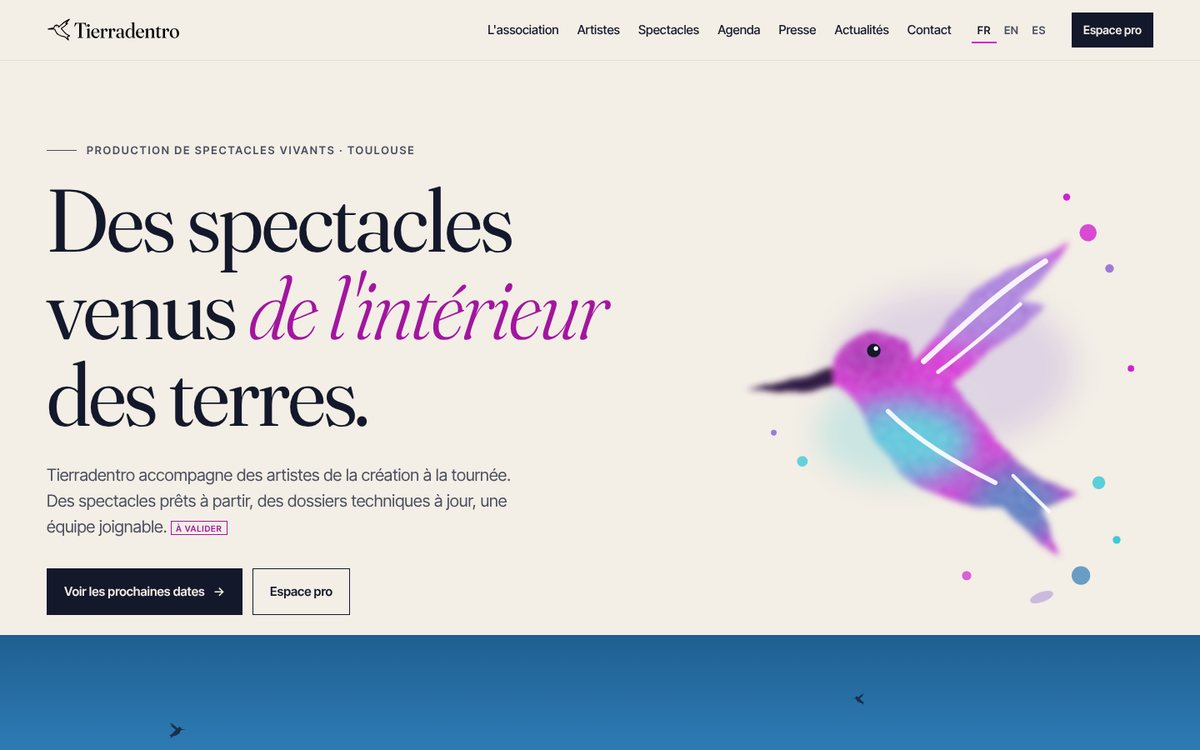
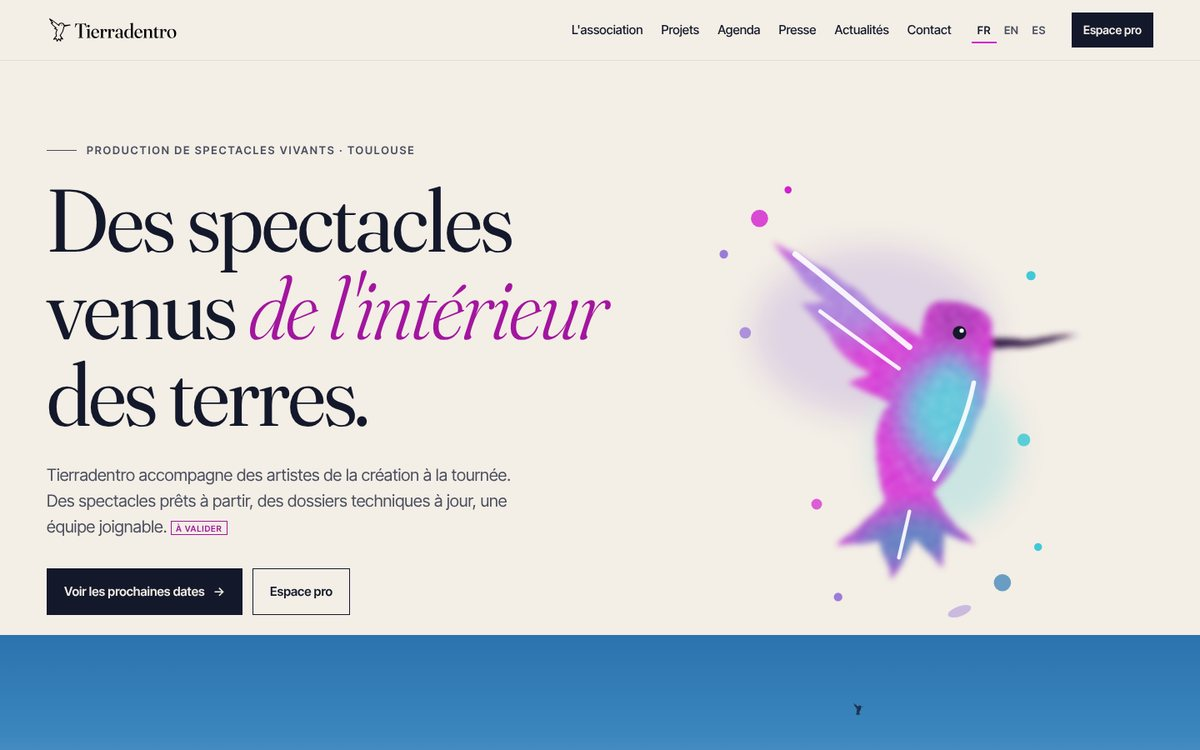
Phase 0 : structure en projets, colibri d'après la référence, salar plus chaud
- Liste plate de projets : le Cuarteto Tafi devient un projet parmi d'autres
- Colibri au trait redessiné dans la posture de l'aquarelle (vertical, tourné à droite)
- Salar de la maquette A : sable chaud, nuages bas, jacaranda isolé
- Captures de référence ajoutées, décisions notées dans docs/decisions.md

Claude-Session: https://claude.ai/code/session_017sud6yL9D7haG3bv9AmLAw

diff --git a/design/phase-0/maquette-a-salar.html b/design/phase-0/maquette-a-salar.html
@@ -50,22 +50,24 @@
 
   /* ---------- Salar ---------- */
   .salar { position: relative; height: clamp(300px, 46vw, 580px); overflow: hidden; margin: 24px 0 0; isolation: isolate; }
-  .salar .sky { position: absolute; inset: 0 0 40% 0; background: linear-gradient(180deg, #1F5F91 0%, #2E7BB5 40%, #86B9DE 80%, #CFE3F0 100%); }
-  .salar .mounts { position: absolute; left: 0; width: 100%; height: 9%; bottom: 40%; z-index: 1; }
-  .salar .mounts.mirror { bottom: auto; top: 60%; transform: scaleY(-1); opacity: .35; filter: blur(1.5px); z-index: 1; }
-  .salar .plain { position: absolute; inset: 60% 0 0 0; background: linear-gradient(180deg, #BFD8EA 0%, #E4EEF4 22%, #F7F6F2 60%, var(--sable) 100%); overflow: hidden; }
-  .salar .crust { position: absolute; inset: 0; background: url("assets/salar-croute.svg") center top / cover no-repeat; opacity: .9; }
+  .salar .sky { position: absolute; inset: 0 0 40% 0; background: linear-gradient(180deg, #2A73AE 0%, #3C86BE 35%, #79AFD6 70%, #C9DCE6 100%); }
+  .salar .clouds { position: absolute; left: -5%; right: -5%; bottom: 39%; height: 22%; z-index: 1; filter: blur(10px); opacity: .9;
+    background: radial-gradient(18% 70% at 8% 100%, #F4F6F7 0, transparent 70%), radial-gradient(14% 60% at 30% 100%, #EEF2F4 0, transparent 70%), radial-gradient(20% 80% at 52% 100%, #F6F7F7 0, transparent 70%), radial-gradient(14% 60% at 74% 100%, #EDF1F3 0, transparent 70%), radial-gradient(18% 75% at 94% 100%, #F4F6F7 0, transparent 70%); }
+  .salar .plain { position: absolute; inset: 60% 0 0 0; background: linear-gradient(180deg, #DCD3C4 0%, #E9E0D1 18%, #EFE8DC 55%, var(--sable) 100%); overflow: hidden; }
+  .salar .crust { position: absolute; inset: 0; background: url("assets/salar-croute.svg") center top / cover no-repeat; opacity: .45; filter: sepia(.7) saturate(.7); }
+  .salar .tree { position: absolute; z-index: 2; left: 16%; bottom: 37%; height: 40%; width: auto; }
+  .salar .tree-shadow { position: absolute; z-index: 1; left: 17%; bottom: 36.2%; width: 9%; height: 1.4%; border-radius: 50%; background: rgba(90,70,50,.25); filter: blur(3px); }
   .salar .flock { position: absolute; inset: 0; z-index: 2; pointer-events: none; }
   .salar .flock svg { position: absolute; width: 22px; color: var(--nuit); opacity: .75; }
   .salar figcaption { position: absolute; right: var(--gutter); bottom: 14px; z-index: 3; font-size: 12px; letter-spacing: .06em; color: var(--gris); font-style: italic; }
   .crosser { position: absolute; z-index: 4; top: 22%; left: -80px; width: 54px; color: var(--nuit); animation: cross 9s 1.2s cubic-bezier(.45,.05,.35,1) 1 forwards; opacity: 0; }
   @keyframes cross {
-    0% { transform: translate(0, 0) scaleX(-1); opacity: 0; }
+    0% { transform: translate(0, 0) ; opacity: 0; }
     6% { opacity: .9; }
-    40% { transform: translate(42vw, -40px) scaleX(-1); }
-    55% { transform: translate(52vw, -10px) scaleX(-1); }
+    40% { transform: translate(42vw, -40px); }
+    55% { transform: translate(52vw, -10px); }
     94% { opacity: .9; }
-    100% { transform: translate(115vw, -90px) scaleX(-1); opacity: 0; }
+    100% { transform: translate(115vw, -90px) ; opacity: 0; }
   }
 
   /* ---------- Preuves ---------- */
@@ -204,7 +206,7 @@
       <img class="logo-b" src="assets/logo-tierradentro-b.svg" alt="Tierradentro">
     </a>
     <nav class="nav" aria-label="Navigation principale">
-      <a href="#">L'association</a><a href="#">Artistes</a><a href="#">Spectacles</a><a href="#agenda">Agenda</a><a href="#">Presse</a><a href="#">Actualités</a><a href="#">Contact</a>
+      <a href="#">L'association</a><a href="#">Projets</a><a href="#agenda">Agenda</a><a href="#">Presse</a><a href="#">Actualités</a><a href="#">Contact</a>
     </nav>
     <div class="langs" aria-label="Langue"><a href="#" aria-current="true" lang="fr">FR</a><a href="#" lang="en">EN</a><a href="#" lang="es">ES</a></div>
     <a class="btn-pro" href="#pro">Espace pro</a>
@@ -231,13 +233,15 @@
 
     <figure class="salar" aria-hidden="true">
       <div class="sky" data-parallax="0.04"></div>
-      <svg class="mounts" viewBox="0 0 1600 60" preserveAspectRatio="none"><use href="#mounts"/></svg>
+      <div class="clouds"></div>
       <div class="plain"><div class="crust"></div></div>
-      <svg class="mounts mirror" viewBox="0 0 1600 60" preserveAspectRatio="none"><use href="#mounts"/></svg>
+      <span class="tree-shadow"></span>
+      <svg class="tree" viewBox="0 0 120 130"><use href="#jacaranda-tree"/></svg>
       <div class="flock">
-        <svg viewBox="0 0 100 100" style="left:14%;top:18%;transform:scaleX(-1)"><use href="#bird-solid"/></svg>
-        <svg viewBox="0 0 100 100" style="left:20%;top:30%;width:14px;transform:scaleX(-1)"><use href="#bird-solid"/></svg>
-        <svg viewBox="0 0 100 100" style="left:71%;top:12%;width:16px"><use href="#bird-solid"/></svg>
+        <svg viewBox="0 0 100 100" style="left:14.5%;top:30%;width:12px"><use href="#bird-solid"/></svg>
+        <svg viewBox="0 0 100 100" style="left:27%;top:26%;width:11px;transform:scaleX(-1)"><use href="#bird-solid"/></svg>
+        <svg viewBox="0 0 100 100" style="left:26%;top:44%;width:9px;transform:scaleX(-1)"><use href="#bird-solid"/></svg>
+        <svg viewBox="0 0 100 100" style="left:71%;top:14%;width:16px"><use href="#bird-solid"/></svg>
       </div>
       <svg class="crosser" viewBox="0 0 100 100"><use href="#bird-line"/></svg>
       <figcaption>tierra adentro : l'intérieur des terres</figcaption>
@@ -248,7 +252,7 @@
     <ul>
       <li><strong>90 dates</strong><span>jouées depuis janvier 2024 <span class="av">À valider</span></span></li>
       <li><strong>36 départements</strong><span>et le Maroc (Festival Mawazine, Rabat)</span></li>
-      <li><strong>3 spectacles</strong><span>en tournée, un en préparation</span></li>
+      <li><strong>3 projets</strong><span>en tournée, un en préparation</span></li>
     </ul>
   </div>
 
@@ -259,12 +263,12 @@
         <a class="more" href="#">Tout l'agenda et les archives</a>
       </div>
       <ol class="dates reveal">
-        <li class="date"><p class="d-when"><span class="d-day">13</span><span class="d-month">nov.<small>ven. 2026</small></span></p><p class="d-where"><strong>Le Taquin</strong><span>Toulouse (31)</span></p><p class="d-what">Cuarteto Tafi<em>Spectacle à préciser</em></p><a class="d-tix" href="#">Billetterie bientôt</a></li>
-        <li class="date"><p class="d-when"><span class="d-day">26</span><span class="d-month">nov.<small>jeu. 2026</small></span></p><p class="d-where"><strong>Le Palace</strong><span>Surgères (17)</span></p><p class="d-what">Cuarteto Tafi<em>Spectacle à préciser</em></p><a class="d-tix" href="#">Billetterie bientôt</a></li>
-        <li class="date"><p class="d-when"><span class="d-day">5</span><span class="d-month">déc.<small>sam. 2026</small></span></p><p class="d-where"><strong>Centre Culturel</strong><span>Eymet (24)</span></p><p class="d-what">Cuarteto Tafi<em>Spectacle à préciser</em></p><a class="d-tix" href="#">Billetterie bientôt</a></li>
-        <li class="date"><p class="d-when"><span class="d-day">22</span><span class="d-month">janv.<small>ven. 2027</small></span></p><p class="d-where"><strong>Théâtre</strong><span>Conques-sur-Orbiel (11)</span></p><p class="d-what">Cuarteto Tafi<em>Spectacle à préciser</em></p><a class="d-tix" href="#">Billetterie bientôt</a></li>
-        <li class="date"><p class="d-when"><span class="d-day">12</span><span class="d-month">mars<small>ven. 2027</small></span></p><p class="d-where"><strong>Salle Jacques Brel</strong><span>Castanet-Tolosan (31)</span></p><p class="d-what">Cuarteto Tafi<em>Spectacle à préciser</em></p><a class="d-tix" href="#">Billetterie bientôt</a></li>
-        <li class="date"><p class="d-when"><span class="d-day">4</span><span class="d-month">juin<small>ven. 2027</small></span></p><p class="d-where"><strong>Le Bijou</strong><span>Toulouse (31)</span></p><p class="d-what">Cuarteto Tafi<em>Spectacle à préciser</em></p><a class="d-tix" href="#">Billetterie bientôt</a></li>
+        <li class="date"><p class="d-when"><span class="d-day">13</span><span class="d-month">nov.<small>ven. 2026</small></span></p><p class="d-where"><strong>Le Taquin</strong><span>Toulouse (31)</span></p><p class="d-what">Cuarteto Tafi<em>Concert</em></p><a class="d-tix" href="#">Billetterie bientôt</a></li>
+        <li class="date"><p class="d-when"><span class="d-day">26</span><span class="d-month">nov.<small>jeu. 2026</small></span></p><p class="d-where"><strong>Le Palace</strong><span>Surgères (17)</span></p><p class="d-what">Cuarteto Tafi<em>Concert</em></p><a class="d-tix" href="#">Billetterie bientôt</a></li>
+        <li class="date"><p class="d-when"><span class="d-day">5</span><span class="d-month">déc.<small>sam. 2026</small></span></p><p class="d-where"><strong>Centre Culturel</strong><span>Eymet (24)</span></p><p class="d-what">Cuarteto Tafi<em>Concert</em></p><a class="d-tix" href="#">Billetterie bientôt</a></li>
+        <li class="date"><p class="d-when"><span class="d-day">22</span><span class="d-month">janv.<small>ven. 2027</small></span></p><p class="d-where"><strong>Théâtre</strong><span>Conques-sur-Orbiel (11)</span></p><p class="d-what">Cuarteto Tafi<em>Concert</em></p><a class="d-tix" href="#">Billetterie bientôt</a></li>
+        <li class="date"><p class="d-when"><span class="d-day">12</span><span class="d-month">mars<small>ven. 2027</small></span></p><p class="d-where"><strong>Salle Jacques Brel</strong><span>Castanet-Tolosan (31)</span></p><p class="d-what">Cuarteto Tafi<em>Concert</em></p><a class="d-tix" href="#">Billetterie bientôt</a></li>
+        <li class="date"><p class="d-when"><span class="d-day">4</span><span class="d-month">juin<small>ven. 2027</small></span></p><p class="d-where"><strong>Le Bijou</strong><span>Toulouse (31)</span></p><p class="d-what">Cuarteto Tafi<em>Concert</em></p><a class="d-tix" href="#">Billetterie bientôt</a></li>
       </ol>
     </div>
   </section>
@@ -272,21 +276,21 @@
   <section class="block" style="padding-top:0" aria-labelledby="h-shows">
     <div class="wrap">
       <div class="sec-head reveal">
-        <div><p class="kicker">Répertoire</p><h2 id="h-shows" class="display">Nos spectacles</h2></div>
-        <a class="more" href="#">Tous les spectacles</a>
+        <div><p class="kicker">Ce que nous présentons</p><h2 id="h-shows" class="display">Nos projets</h2></div>
+        <a class="more" href="#">Tous les projets</a>
       </div>
       <ol class="shows reveal">
         <li class="show"><a href="#">
-          <div><h3 class="display">El infinito y un amor</h3><p>Cuarteto Tafi · le spectacle de l'album sorti en janvier 2024. <span class="av">Texte à rédiger</span></p></div>
+          <div><h3 class="display">Cuarteto Tafi</h3><p>Quartet franco-argentin de world music. En concert avec <i>El infinito y un amor</i>, l'album sorti en janvier 2024.</p></div>
           <span class="status tour">En tournée</span><span class="arrow" aria-hidden="true">→</span></a></li>
         <li class="show"><a href="#">
-          <div><h3 class="display">Des espoirs plein le corps</h3><p>Le parcours d'un corps de femme, de la naissance à l'émancipation. Avec Justine Marmouyet (danse) et Fanny Do (piano). 1 h 15, tout public.</p></div>
+          <div><h3 class="display">Des espoirs plein le corps</h3><p>Le parcours d'un corps de femme, de la naissance à l'émancipation. Avec des musiciens du Cuarteto Tafi, Justine Marmouyet (danse) et Fanny Do (piano). 1 h 15, tout public. <span class="av">Distribution à valider</span></p></div>
           <span class="status tour">En tournée</span><span class="arrow" aria-hidden="true">→</span></a></li>
         <li class="show"><a href="#">
-          <div><h3 class="display">La voix des femmes d'Amérique latine</h3><p>Cuarteto Tafi et Jean-Luc Amestoy à l'accordéon. Création 2023.</p></div>
+          <div><h3 class="display">La voix des femmes d'Amérique latine</h3><p>Avec des musiciens du Cuarteto Tafi et Jean-Luc Amestoy à l'accordéon. Création 2023. <span class="av">Distribution à valider</span></p></div>
           <span class="status tour">En tournée</span><span class="arrow" aria-hidden="true">→</span></a></li>
         <li class="show teaser"><a href="#">
-          <div><h3 class="display">La Noche Eterna</h3><p>Nouveau spectacle en préparation. Plus d'informations prochainement.</p></div>
+          <div><h3 class="display">La Noche Eterna</h3><p>Nouveau projet en préparation. Plus d'informations prochainement.</p></div>
           <span class="status soon">À venir</span><span class="arrow" aria-hidden="true">→</span></a></li>
         <li class="show"><a href="#">
           <div><h3 class="display" style="font-size:clamp(1.5rem,3vw,2.4rem)">Nosotras : nuestros cantos – nuestros cuerpos</h3><p>Création présentée au festival Rio Loco, Toulouse, 2025. <span class="av">À confirmer</span></p></div>
@@ -298,7 +302,7 @@
   <section class="block" style="padding-top:0" aria-labelledby="h-artists">
     <div class="wrap">
       <div class="sec-head reveal">
-        <div><p class="kicker">Artistes produits</p><h2 id="h-artists" class="display">Nos artistes</h2></div>
+        <div><p class="kicker">À la une</p><h2 id="h-artists" class="display">Le projet du moment</h2></div>
       </div>
       <div class="artists reveal">
         <article class="artist">
@@ -312,7 +316,7 @@
               <li><span>Matthieu Guenez</span><span>guitare, oud</span></li>
               <li><span>Frédéric Theiler</span><span>percussions, chœurs</span></li>
             </ul>
-            <a class="more" href="#">Découvrir le Cuarteto Tafi</a>
+            <a class="more" href="#">Voir le projet</a>
           </div>
         </article>
         <aside class="join">
@@ -385,9 +389,15 @@
 
 <!-- Symboles réutilisés -->
 <svg width="0" height="0" style="position:absolute" aria-hidden="true">
-  <symbol id="bird-line" viewBox="0 0 100 100"><path d="M3 46 L28 40 C29 32 35 28 41 29 C46 30 48 34 48 38 C58 28 70 14 94 4 C86 14 82 18 78 22 L86 22 C74 34 66 40 59 44 C66 52 73 60 80 67 L95 75 L85 79 L90 93 L74 79 C56 76 40 68 36 57 C34 51 32 47 28 46 Z" fill="none" stroke="currentColor" stroke-width="4" stroke-linecap="round" stroke-linejoin="round"/></symbol>
+  <symbol id="bird-line" viewBox="0 0 100 100"><path d="M97 30 L72 32 C71 26 66 22 60 22 C54 22 50 27 50 32 C41 24 29 13 11 4 C16 12 20 17 24 21 L17 22 C24 30 31 37 38 42 L32 45 C36 47 40 49 43 50 C37 58 36 67 40 75 L28 90 L39 87 L42 98 L49 88 L57 97 L58 86 L66 89 L55 74 C63 64 69 52 70 42 C70 39 71 37 72 35 Z" fill="none" stroke="currentColor" stroke-width="4" stroke-linecap="round" stroke-linejoin="round"/></symbol>
+  <symbol id="jacaranda-tree" viewBox="0 0 120 130">
+    <path d="M58 130 C59 112 57 98 60 84 M60 92 C52 84 44 78 36 74 M60 88 C68 80 76 74 86 70 M59 100 C54 96 48 94 42 93 M60 84 C60 74 58 66 56 58" fill="none" stroke="#5B4636" stroke-width="2.6" stroke-linecap="round"/>
+    <g fill="#9B7BD9"><circle cx="40" cy="62" r="16"/><circle cx="62" cy="50" r="19"/><circle cx="84" cy="60" r="16"/><circle cx="26" cy="72" r="10"/><circle cx="98" cy="70" r="10"/></g>
+    <g fill="#B49BE6"><circle cx="50" cy="44" r="10"/><circle cx="74" cy="42" r="10"/><circle cx="34" cy="56" r="7"/><circle cx="90" cy="54" r="7"/></g>
+    <g fill="#7F5FC4" opacity=".8"><circle cx="58" cy="66" r="9"/><circle cx="44" cy="74" r="7"/><circle cx="78" cy="72" r="7"/></g>
+  </symbol>
   <symbol id="mounts" viewBox="0 0 1600 60"><path d="M0 60 L0 44 L80 38 L150 42 L230 26 L300 33 L380 18 L450 30 L520 27 L600 40 L700 22 L780 10 L850 24 L930 32 L1010 21 L1090 29 L1180 14 L1260 28 L1350 36 L1440 26 L1520 33 L1600 30 L1600 60 Z" fill="#A08ED6" opacity=".6"/><path d="M0 60 L0 50 L120 46 L240 50 L330 42 L460 48 L590 43 L720 51 L860 45 L980 49 L1110 42 L1250 48 L1390 44 L1500 50 L1600 47 L1600 60 Z" fill="#7F93BD" opacity=".7"/></symbol>
-  <symbol id="bird-solid" viewBox="0 0 100 100"><path d="M3 46 L28 40 C29 32 35 28 41 29 C46 30 48 34 48 38 C58 28 70 14 94 4 C86 14 82 18 78 22 L86 22 C74 34 66 40 59 44 C66 52 73 60 80 67 L95 75 L85 79 L90 93 L74 79 C56 76 40 68 36 57 C34 51 32 47 28 46 Z" fill="currentColor"/></symbol>
+  <symbol id="bird-solid" viewBox="0 0 100 100"><path d="M97 30 L72 32 C71 26 66 22 60 22 C54 22 50 27 50 32 C41 24 29 13 11 4 C16 12 20 17 24 21 L17 22 C24 30 31 37 38 42 L32 45 C36 47 40 49 43 50 C37 58 36 67 40 75 L28 90 L39 87 L42 98 L49 88 L57 97 L58 86 L66 89 L55 74 C63 64 69 52 70 42 C70 39 71 37 72 35 Z" fill="currentColor"/></symbol>
 </svg>
 
 <div class="mock-bar" role="group" aria-label="Outils de maquette">

diff --git a/design/phase-0/maquette-b-nuit.html b/design/phase-0/maquette-b-nuit.html
@@ -58,7 +58,7 @@
   .scroll-cue { position: absolute; left: var(--gutter); bottom: 22px; font-size: 12px; letter-spacing: .14em; text-transform: uppercase; color: rgba(243,238,230,.85); text-decoration: none; display: flex; gap: 10px; align-items: center; }
   .scroll-cue::before { content: ""; width: 1px; height: 34px; background: currentColor; }
   .crosser { position: absolute; z-index: 2; top: 40%; left: -80px; width: 46px; color: var(--sable); opacity: 0; animation: cross 10s 1.5s cubic-bezier(.45,.05,.35,1) 1 forwards; }
-  @keyframes cross { 0% { transform: translate(0,0) scaleX(-1); opacity: 0; } 8% { opacity: .9; } 50% { transform: translate(50vw,-70px) scaleX(-1); } 92% { opacity: .9; } 100% { transform: translate(115vw,-30px) scaleX(-1); opacity: 0; } }
+  @keyframes cross { 0% { transform: translate(0,0); opacity: 0; } 8% { opacity: .9; } 50% { transform: translate(50vw,-70px); } 92% { opacity: .9; } 100% { transform: translate(115vw,-30px); opacity: 0; } }
   @media (max-width: 900px) {
     .hero-bird { right: -4%; top: 78px; width: 42vw; opacity: .95; }
     .hero h1 { grid-column: 1 / -1; }
@@ -184,7 +184,7 @@
       <img class="light-logo logo-b" src="assets/logo-tierradentro-b.svg" alt="Tierradentro">
     </a>
     <nav class="nav" aria-label="Navigation principale">
-      <a href="#">L'association</a><a href="#">Artistes</a><a href="#">Spectacles</a><a href="#agenda">Agenda</a><a href="#">Presse</a><a href="#">Actualités</a><a href="#">Contact</a>
+      <a href="#">L'association</a><a href="#">Projets</a><a href="#agenda">Agenda</a><a href="#">Presse</a><a href="#">Actualités</a><a href="#">Contact</a>
     </nav>
     <div class="langs" aria-label="Langue"><a href="#" aria-current="true" lang="fr">FR</a><a href="#" lang="en">EN</a><a href="#" lang="es">ES</a></div>
     <a class="btn-pro" href="#pro">Espace pro</a>
@@ -240,7 +240,7 @@
       <div class="stats reveal">
         <div><strong>90</strong><span>dates jouées depuis janvier 2024 <span class="av">À valider</span></span></div>
         <div><strong>36</strong><span>départements, et le Maroc</span></div>
-        <div><strong>3</strong><span>spectacles en tournée</span></div>
+        <div><strong>3</strong><span>projets en tournée</span></div>
       </div>
     </div>
   </section>
@@ -252,12 +252,12 @@
         <a class="more" href="#">Agenda complet et archives par année</a>
       </div>
       <ol class="tickets reveal">
-        <li class="ticket"><div class="t-date"><span class="t-day">13</span><span class="t-month">Nov. 2026<small>vendredi</small></span></div><div class="t-body"><strong>Le Taquin</strong><span>Toulouse (31)</span><p>Cuarteto Tafi · spectacle à préciser</p></div><div class="t-foot"><span>Billetterie</span><a href="#">bientôt</a></div></li>
-        <li class="ticket"><div class="t-date"><span class="t-day">26</span><span class="t-month">Nov. 2026<small>jeudi</small></span></div><div class="t-body"><strong>Le Palace</strong><span>Surgères (17)</span><p>Cuarteto Tafi · spectacle à préciser</p></div><div class="t-foot"><span>Billetterie</span><a href="#">bientôt</a></div></li>
-        <li class="ticket"><div class="t-date"><span class="t-day">5</span><span class="t-month">Déc. 2026<small>samedi</small></span></div><div class="t-body"><strong>Centre Culturel</strong><span>Eymet (24)</span><p>Cuarteto Tafi · spectacle à préciser</p></div><div class="t-foot"><span>Billetterie</span><a href="#">bientôt</a></div></li>
-        <li class="ticket"><div class="t-date"><span class="t-day">22</span><span class="t-month">Janv. 2027<small>vendredi</small></span></div><div class="t-body"><strong>Théâtre</strong><span>Conques-sur-Orbiel (11)</span><p>Cuarteto Tafi · spectacle à préciser</p></div><div class="t-foot"><span>Billetterie</span><a href="#">bientôt</a></div></li>
-        <li class="ticket"><div class="t-date"><span class="t-day">12</span><span class="t-month">Mars 2027<small>vendredi</small></span></div><div class="t-body"><strong>Salle Jacques Brel</strong><span>Castanet-Tolosan (31)</span><p>Cuarteto Tafi · spectacle à préciser</p></div><div class="t-foot"><span>Billetterie</span><a href="#">bientôt</a></div></li>
-        <li class="ticket"><div class="t-date"><span class="t-day">4</span><span class="t-month">Juin 2027<small>vendredi</small></span></div><div class="t-body"><strong>Le Bijou</strong><span>Toulouse (31)</span><p>Cuarteto Tafi · spectacle à préciser</p></div><div class="t-foot"><span>Billetterie</span><a href="#">bientôt</a></div></li>
+        <li class="ticket"><div class="t-date"><span class="t-day">13</span><span class="t-month">Nov. 2026<small>vendredi</small></span></div><div class="t-body"><strong>Le Taquin</strong><span>Toulouse (31)</span><p>Cuarteto Tafi · concert</p></div><div class="t-foot"><span>Billetterie</span><a href="#">bientôt</a></div></li>
+        <li class="ticket"><div class="t-date"><span class="t-day">26</span><span class="t-month">Nov. 2026<small>jeudi</small></span></div><div class="t-body"><strong>Le Palace</strong><span>Surgères (17)</span><p>Cuarteto Tafi · concert</p></div><div class="t-foot"><span>Billetterie</span><a href="#">bientôt</a></div></li>
+        <li class="ticket"><div class="t-date"><span class="t-day">5</span><span class="t-month">Déc. 2026<small>samedi</small></span></div><div class="t-body"><strong>Centre Culturel</strong><span>Eymet (24)</span><p>Cuarteto Tafi · concert</p></div><div class="t-foot"><span>Billetterie</span><a href="#">bientôt</a></div></li>
+        <li class="ticket"><div class="t-date"><span class="t-day">22</span><span class="t-month">Janv. 2027<small>vendredi</small></span></div><div class="t-body"><strong>Théâtre</strong><span>Conques-sur-Orbiel (11)</span><p>Cuarteto Tafi · concert</p></div><div class="t-foot"><span>Billetterie</span><a href="#">bientôt</a></div></li>
+        <li class="ticket"><div class="t-date"><span class="t-day">12</span><span class="t-month">Mars 2027<small>vendredi</small></span></div><div class="t-body"><strong>Salle Jacques Brel</strong><span>Castanet-Tolosan (31)</span><p>Cuarteto Tafi · concert</p></div><div class="t-foot"><span>Billetterie</span><a href="#">bientôt</a></div></li>
+        <li class="ticket"><div class="t-date"><span class="t-day">4</span><span class="t-month">Juin 2027<small>vendredi</small></span></div><div class="t-body"><strong>Le Bijou</strong><span>Toulouse (31)</span><p>Cuarteto Tafi · concert</p></div><div class="t-foot"><span>Billetterie</span><a href="#">bientôt</a></div></li>
       </ol>
     </div>
   </section>
@@ -265,34 +265,34 @@
   <section class="block" style="padding-top:0" aria-labelledby="h-shows">
     <div class="wrap">
       <div class="head reveal">
-        <div><p class="kicker">Répertoire</p><h2 id="h-shows" class="display">Nos spectacles</h2></div>
-        <a class="more" href="#">Tous les spectacles</a>
+        <div><p class="kicker">Ce que nous présentons</p><h2 id="h-shows" class="display">Nos projets</h2></div>
+        <a class="more" href="#">Tous les projets</a>
       </div>
       <div class="tiles reveal">
         <a class="tile t1" href="#">
-          <div class="meta"><span class="status">En tournée</span><span>Cuarteto Tafi</span></div>
-          <div><h3 class="display">El infinito y un amor</h3><p style="margin-top:14px">Le spectacle de l'album sorti en janvier 2024. <span class="av" style="color:var(--nuit)">Texte à rédiger</span></p></div>
+          <div class="meta"><span class="status">En tournée</span><span>Quartet · world music</span></div>
+          <div><h3 class="display">Cuarteto Tafi</h3><p style="margin-top:14px">Quartet franco-argentin. En concert avec <i>El infinito y un amor</i>, l'album sorti en janvier 2024.</p></div>
           <svg class="bird" viewBox="0 0 100 100" aria-hidden="true"><use href="#bird-solid"/></svg>
         </a>
         <a class="tile t2 on-dark" href="#">
           <div class="meta"><span class="status">En tournée</span><span>1 h 15 · tout public</span></div>
-          <div><h3 class="display">Des espoirs plein le corps</h3><p style="margin-top:14px">Le parcours d'un corps de femme, de la naissance à l'émancipation. Avec Justine Marmouyet (danse) et Fanny Do (piano).</p></div>
+          <div><h3 class="display">Des espoirs plein le corps</h3><p style="margin-top:14px">Le parcours d'un corps de femme, de la naissance à l'émancipation. Avec des musiciens du Cuarteto Tafi, Justine Marmouyet (danse) et Fanny Do (piano). <span class="av">Distribution à valider</span></p></div>
           <svg class="bird" viewBox="0 0 100 100" aria-hidden="true" style="color:var(--turquoise)"><use href="#bird-solid"/></svg>
         </a>
         <a class="tile t3" href="#">
           <div class="meta"><span class="status">En tournée</span><span>Création 2023</span></div>
-          <div><h3 class="display">La voix des femmes d'Amérique latine</h3><p style="margin-top:14px">Cuarteto Tafi et Jean-Luc Amestoy à l'accordéon.</p></div>
+          <div><h3 class="display">La voix des femmes d'Amérique latine</h3><p style="margin-top:14px">Avec des musiciens du Cuarteto Tafi et Jean-Luc Amestoy à l'accordéon. <span class="av" style="color:var(--nuit)">Distribution à valider</span></p></div>
           <svg class="bird" viewBox="0 0 100 100" aria-hidden="true"><use href="#bird-solid"/></svg>
         </a>
         <a class="tile t4" href="#">
           <div class="meta"><span class="status" style="color:var(--jacaranda-encre)">À venir</span><span>En préparation</span></div>
-          <div><h3 class="display">La Noche Eterna</h3><p style="margin-top:14px;color:var(--gris)">Nouveau spectacle. Plus d'informations prochainement.</p></div>
+          <div><h3 class="display">La Noche Eterna</h3><p style="margin-top:14px;color:var(--gris)">Nouveau projet. Plus d'informations prochainement.</p></div>
           <svg class="bird" viewBox="0 0 100 100" aria-hidden="true" style="color:var(--jacaranda)"><use href="#bird-line"/></svg>
         </a>
       </div>
       <a class="strip reveal" href="#">
         <div><h3 class="display">Nosotras : nuestros cantos – nuestros cuerpos</h3><p>Création présentée au festival Rio Loco, Toulouse, 2025. <span class="av">À confirmer</span></p></div>
-        <span class="more">Voir la création</span>
+        <span class="more">Voir le projet</span>
       </a>
     </div>
   </section>
@@ -300,7 +300,7 @@
   <section class="block dark on-dark" aria-labelledby="h-artists">
     <div class="wrap artists">
       <div class="reveal">
-        <p class="kicker">Nos artistes</p>
+        <p class="kicker">Projet à la une</p>
         <h2 id="h-artists" class="artist-name display">Cuarteto <em>Tafi</em></h2>
         <p class="genre">Quartet franco-argentin de world music. Chant en espagnol, poétique et engagé, bouzouki grec, guitare flamenca et oud, percussions afro-latines.</p>
         <ul class="members">
@@ -309,11 +309,11 @@
           <li><strong>Matthieu Guenez</strong><span>guitare, oud</span></li>
           <li><strong>Frédéric Theiler</strong><span>percussions, chœurs</span></li>
         </ul>
-        <a class="more" href="#">Fiche artiste, discographie et vidéos</a>
+        <a class="more" href="#">Le projet : discographie, vidéos, dates</a>
       </div>
       <div class="reveal">
         <div class="portrait"><img src="assets/colibri-aquarelle.svg" alt=""><small>Photo du quartet à fournir (crédit obligatoire)</small></div>
-        <div class="join"><div><strong class="display">Votre projet ici ?</strong><span>Tierradentro accueille de nouveaux artistes. <span class="av">À valider</span></span></div><a class="more" href="#">Nous proposer un projet</a></div>
+        <div class="join"><div><strong class="display">Votre projet ici ?</strong><span>Tierradentro accueille de nouveaux projets. <span class="av">À valider</span></span></div><a class="more" href="#">Nous proposer un projet</a></div>
       </div>
     </div>
   </section>
@@ -334,16 +334,16 @@
     <div class="wrap pro-grid">
       <div class="reveal">
         <p class="kicker">Espace pro</p>
-        <h2 id="h-pro" class="display">Programmer un spectacle</h2>
+        <h2 id="h-pro" class="display">Programmer un projet</h2>
         <p>Tous les documents, à jour, en téléchargement direct. Sans compte ni mot de passe.</p>
         <a class="more" href="#">Ouvrir l'Espace pro</a>
       </div>
       <div class="table-scroll reveal">
         <table class="docs">
           <caption class="sr-only">Documents disponibles par spectacle</caption>
-          <thead><tr><th scope="col">Spectacle</th><th scope="col">Fiche technique</th><th scope="col">Dossier de presse</th><th scope="col">Photos HD</th><th scope="col">Mise à jour</th></tr></thead>
+          <thead><tr><th scope="col">Projet</th><th scope="col">Fiche technique</th><th scope="col">Dossier de presse</th><th scope="col">Photos HD</th><th scope="col">Mise à jour</th></tr></thead>
           <tbody>
-            <tr><th scope="row">El infinito y un amor</th><td><a href="#">PDF</a></td><td><a href="#">PDF</a></td><td><a href="#">Galerie</a></td><td class="na">à saisir</td></tr>
+            <tr><th scope="row">Cuarteto Tafi</th><td><a href="#">PDF</a></td><td><a href="#">PDF</a></td><td><a href="#">Galerie</a></td><td class="na">à saisir</td></tr>
             <tr><th scope="row">Des espoirs plein le corps</th><td><a href="#">PDF</a></td><td><a href="#">PDF</a></td><td><a href="#">Galerie</a></td><td class="na">à saisir</td></tr>
             <tr><th scope="row">La voix des femmes d'Amérique latine</th><td><a href="#">PDF</a></td><td><a href="#">PDF</a></td><td><a href="#">Galerie</a></td><td class="na">à saisir</td></tr>
             <tr><th scope="row">La Noche Eterna</th><td class="na">bientôt</td><td class="na">bientôt</td><td class="na">bientôt</td><td class="na">—</td></tr>
@@ -373,8 +373,8 @@
 </footer>
 
 <svg width="0" height="0" style="position:absolute" aria-hidden="true">
-  <symbol id="bird-line" viewBox="0 0 100 100"><path d="M3 46 L28 40 C29 32 35 28 41 29 C46 30 48 34 48 38 C58 28 70 14 94 4 C86 14 82 18 78 22 L86 22 C74 34 66 40 59 44 C66 52 73 60 80 67 L95 75 L85 79 L90 93 L74 79 C56 76 40 68 36 57 C34 51 32 47 28 46 Z" fill="none" stroke="currentColor" stroke-width="4" stroke-linecap="round" stroke-linejoin="round"/></symbol>
-  <symbol id="bird-solid" viewBox="0 0 100 100"><path d="M3 46 L28 40 C29 32 35 28 41 29 C46 30 48 34 48 38 C58 28 70 14 94 4 C86 14 82 18 78 22 L86 22 C74 34 66 40 59 44 C66 52 73 60 80 67 L95 75 L85 79 L90 93 L74 79 C56 76 40 68 36 57 C34 51 32 47 28 46 Z" fill="currentColor"/></symbol>
+  <symbol id="bird-line" viewBox="0 0 100 100"><path d="M97 30 L72 32 C71 26 66 22 60 22 C54 22 50 27 50 32 C41 24 29 13 11 4 C16 12 20 17 24 21 L17 22 C24 30 31 37 38 42 L32 45 C36 47 40 49 43 50 C37 58 36 67 40 75 L28 90 L39 87 L42 98 L49 88 L57 97 L58 86 L66 89 L55 74 C63 64 69 52 70 42 C70 39 71 37 72 35 Z" fill="none" stroke="currentColor" stroke-width="4" stroke-linecap="round" stroke-linejoin="round"/></symbol>
+  <symbol id="bird-solid" viewBox="0 0 100 100"><path d="M97 30 L72 32 C71 26 66 22 60 22 C54 22 50 27 50 32 C41 24 29 13 11 4 C16 12 20 17 24 21 L17 22 C24 30 31 37 38 42 L32 45 C36 47 40 49 43 50 C37 58 36 67 40 75 L28 90 L39 87 L42 98 L49 88 L57 97 L58 86 L66 89 L55 74 C63 64 69 52 70 42 C70 39 71 37 72 35 Z" fill="currentColor"/></symbol>
   <symbol id="mounts" viewBox="0 0 1600 60"><path d="M0 60 L0 44 L80 38 L150 42 L230 26 L300 33 L380 18 L450 30 L520 27 L600 40 L700 22 L780 10 L850 24 L930 32 L1010 21 L1090 29 L1180 14 L1260 28 L1350 36 L1440 26 L1520 33 L1600 30 L1600 60 Z" fill="#3B3570"/><path d="M0 60 L0 50 L120 46 L240 50 L330 42 L460 48 L590 43 L720 51 L860 45 L980 49 L1110 42 L1250 48 L1390 44 L1500 50 L1600 47 L1600 60 Z" fill="#26254F"/></symbol>
 </svg>
 

diff --git a/design/phase-0/index.html b/design/phase-0/index.html
@@ -81,8 +81,13 @@
     <ol class="decide">
       <li><strong>Quelle maquette ?</strong><span>A « Salar » (clair, éditorial) ou B « Nuit » (immersif, plus spectaculaire). On peut aussi mélanger : par exemple le héros de B et l'agenda de A.</span></li>
       <li><strong>Quelle paire typographique ?</strong><span>A : Fraunces + Inter Tight. B : Instrument Serif + Manrope. Le bouton « Typo » en bas de chaque maquette permet d'essayer l'autre paire.</span></li>
-      <li><strong>Le colibri au trait vous convient ?</strong><span>Il sera redessiné d'après l'aquarelle originale dès qu'on l'aura. Dites-moi si la silhouette, l'aile ou la queue sont à revoir.</span></li>
+      <li><strong>Le colibri au trait vous convient ?</strong><span>Redessiné d'après l'aquarelle des captures : vertical, tourné vers la droite, aile levée, queue en éventail. Dites-moi si la silhouette est à revoir.</span></li>
     </ol>
+  </section>
+
+  <section aria-labelledby="s-struct">
+    <h2 class="sec" id="s-struct">Structure retenue <span>docs/decisions.md</span></h2>
+    <p style="margin:0;max-width:52rem">Le site présente une <strong>liste plate de projets</strong>. Le Cuarteto Tafi est l'un d'eux, au même niveau que <i>Des espoirs plein le corps</i>, <i>La voix des femmes d'Amérique latine</i>, <i>La Noche Eterna</i> et <i>Nosotras</i>. La navigation propose « Projets » à la place de « Artistes » et « Spectacles ». Les musiciens et danseurs sont listés dans chaque projet et peuvent apparaître dans plusieurs.</p>
   </section>
 
   <section aria-labelledby="s-mocks">
@@ -91,13 +96,13 @@
       <a class="mock" href="maquette-a-salar.html">
         <div class="shot"><img src="apercus/maquette-a.jpg" alt="Aperçu de la maquette A"></div>
         <h3 class="display">A · Salar</h3>
-        <p>Fond sable, grande typographie éditoriale, le salar en panorama sous le titre. Agenda en liste, spectacles en index numéroté. Sobre et « institution culturelle ».</p>
+        <p>Fond sable, grande typographie éditoriale, le salar en panorama sous le titre (sable chaud, nuages bas, jacaranda isolé). Agenda en liste, projets en index. Sobre et « institution culturelle ».</p>
         <span class="go">Ouvrir la maquette A</span>
       </a>
       <a class="mock" href="maquette-b-nuit.html">
         <div class="shot"><img src="apercus/maquette-b.jpg" alt="Aperçu de la maquette B"></div>
         <h3 class="display">B · Nuit sur le salar</h3>
-        <p>Héros plein écran au crépuscule : ciel profond, jacaranda, reflet sur le sel. Dates en billets, spectacles en aplats de couleur, tableau des documents pro.</p>
+        <p>Héros plein écran au crépuscule : ciel profond, jacaranda, reflet sur le sel. Dates en billets, projets en aplats de couleur, tableau des documents pro.</p>
         <span class="go">Ouvrir la maquette B</span>
       </a>
     </div>
@@ -118,7 +123,7 @@
         </div>
         <small>Le colibri seul, de 120 px à 16 px (favicon)</small>
       </div>
-      <div class="tile light aq" style="grid-column:1/-1;background:var(--sable)"><img src="assets/colibri-aquarelle.svg" alt="Colibri aquarelle provisoire"><small>Colibri couleur provisoire, réservé aux moments forts. À remplacer par l'aquarelle originale.</small></div>
+      <div class="tile light aq" style="grid-column:1/-1;background:var(--sable)"><img src="assets/colibri-aquarelle.svg" alt="Colibri aquarelle provisoire"><small>Colibri couleur provisoire, réservé aux moments forts. Le site utilisera le fichier original de l'aquarelle (droits à confirmer).</small></div>
     </div>
     <p class="logo-notes">Un seul tracé fermé, sans détail superflu, pour rester lisible en 24 px. Le mot « Tierradentro » est converti en tracés : le SVG s'affiche partout, sans police installée. <strong>Droits du colibri</strong> : à confirmer avec l'illustrateur ou l'illustratrice avant la mise en ligne. Un emplacement de crédit est prévu en pied de page.</p>
   </section>
@@ -147,12 +152,12 @@
   <section aria-labelledby="s-wait">
     <h2 class="sec" id="s-wait">Ce qui manque encore <span>Emplacements prévus, rien ne bloque</span></h2>
     <ul class="wait">
-      <li><b>Captures de référence (dossier reference/)</b><span>Non reçues. Le site cuartetotafi.com n'était pas accessible depuis mon environnement. Les maquettes s'appuient donc sur la description du brief.</span></li>
-      <li><b>Aquarelle originale du colibri et ses droits</b><span>Le colibri couleur est une évocation provisoire en SVG.</span></li>
+            <li><b>Aquarelle originale du colibri et ses droits</b><span>Le colibri couleur est une évocation provisoire en SVG.</span></li>
       <li><b>Photos du quartet et des spectacles</b><span>Des emplacements sont prévus, avec crédit photo obligatoire.</span></li>
       <li><b>Identifiants YouTube des clips</b><span>Le lecteur est prêt et ne charge rien avant le clic.</span></li>
-      <li><b>Spectacle joué à chaque date à venir</b><span>Absent du CSV : affiché « à préciser ».</span></li>
+      <li><b>Projet de chaque date à venir</b><span>Le CSV ne le précise pas : ces dates sont rattachées au Cuarteto Tafi.</span></li>
       <li><b>Identité légale et contacts nommés</b><span>SIRET, licence, statut TVA, adresse, téléphones.</span></li>
+      <li><b>Distribution de chaque projet</b><span>Qui joue dans <i>Des espoirs plein le corps</i> et <i>La voix des femmes d'Amérique latine</i> : à valider.</span></li>
       <li><b>Contenu de La Noche Eterna</b><span>Une annonce sobre est affichée en attendant.</span></li>
       <li><b>Logos partenaires</b><span>Le bandeau reste masqué tant qu'il est vide.</span></li>
     </ul>

diff --git a/docs/decisions.md b/docs/decisions.md
@@ -1,0 +1,23 @@
+# Décisions de projet
+
+Les écarts par rapport à `brief.md`, dans l'ordre où ils ont été décidés.
+
+## 1. Une liste plate de projets (remplace « Artistes » + « Spectacles »)
+
+Le Cuarteto Tafi est **un des projets** présentés par Tierradentro, pas « l'artiste » de la structure.
+À côté de lui existent des collaborations et d'autres projets, même quand on y retrouve des musiciens du Tafi.
+
+Conséquences :
+- La navigation a une rubrique **Projets** au lieu de « Artistes » et « Spectacles ».
+- Chaque projet a sa propre fiche, au même niveau : présentation, distribution (personnes et instruments),
+  photos, vidéos, discographie s'il y en a, dates, presse, documents pro.
+- Projets de départ : Cuarteto Tafi (concert *El infinito y un amor*), *Des espoirs plein le corps*,
+  *La voix des femmes d'Amérique latine*, *La Noche Eterna* (à venir), *Nosotras : nuestros cantos – nuestros cuerpos* (à confirmer).
+- Modèle Sanity (phase 1) : un type **Projet** avec un statut (`En tournée`, `Création`, `À venir`, `Archivé`)
+  et une liste de **Personnes** (réutilisables d'un projet à l'autre). Chaque **Date** pointe vers un projet.
+- Dans le CSV, une date sans spectacle renseigné est rattachée au projet Cuarteto Tafi.
+
+## 2. Colibri au trait : posture de la référence
+
+Le colibri du logo reprend la posture de l'aquarelle d'origine : vertical, tourné vers la droite,
+grande aile levée vers l'arrière, queue en éventail vers le bas.

diff --git a/reference/README.md b/reference/README.md
@@ -1,6 +1,7 @@
 # Captures de référence
 
-Déposer ici les captures du site du Cuarteto Tafi mentionnées dans le brief :
-colibri aquarelle (fichier original si possible), pages Concerts, Discographie, Vidéos, Presse, Espace Pro.
+Captures du site du Cuarteto Tafi (cuartetotafi.com), fournies dans le kit du projet :
+le colibri aquarelle, les pages Concerts, Discographie, Vidéos, Presse et Espace Pro.
 
-Elles n'avaient pas été fournies pour la phase 0.
+Elles servent de référence visuelle : posture du colibri, salar sable sous ciel bleu,
+jacaranda isolé, petits colibris en silhouette. Le site Tierradentro s'en inspire sans les copier.
